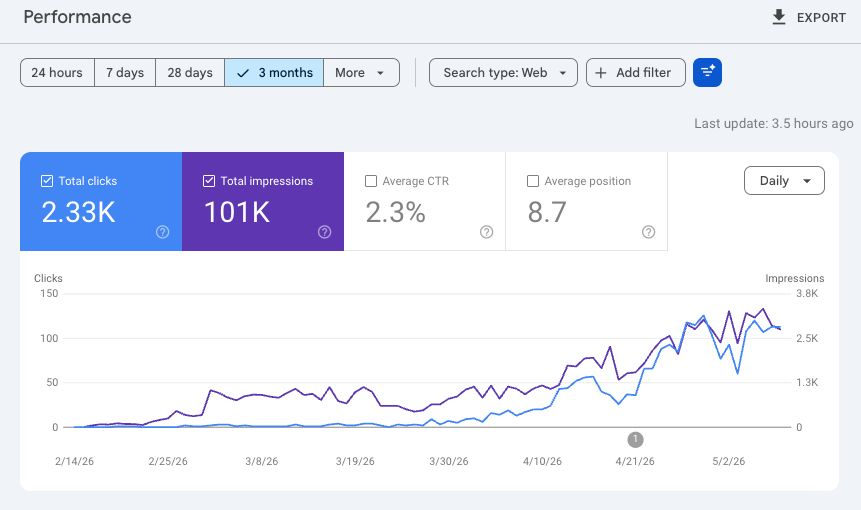
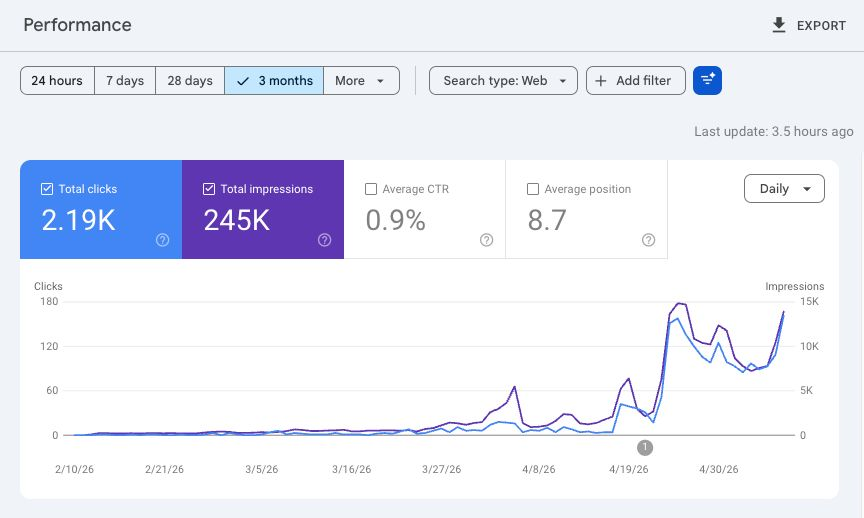
fix: swap Client B/C performance screenshots, enhance descriptions
- Client B: Largest Supermarket Chain (Portugal) — 245K impressions
- Client C: Leading Discount Retailer (Spain) — 101K impressions
- Client A: Major European DIY Chain (Spain)

diff --git a/case-studies.html b/case-studies.html
@@ -156,7 +156,7 @@ a{color:var(--accent);text-decoration:none;transition:opacity .2s}a:hover{opacit
   <div class="evidence">
     <div class="sec-title">Verified Evidence — Google Search Console</div>
 
-    <div class="client-label">Enterprise Client A — Retail (Spain)</div>
+    <div class="client-label">Enterprise Client A — Major European DIY Chain (Spain)</div>
     <div class="evidence-grid">
       <div class="evidence-card">
         <img src="assets/client-a-indexing.jpg" alt="GSC Page Indexing — Client A" loading="lazy">
@@ -168,7 +168,7 @@ a{color:var(--accent);text-decoration:none;transition:opacity .2s}a:hover{opacit
       </div>
     </div>
 
-    <div class="client-label">Enterprise Client B — Grocery (Portugal)</div>
+    <div class="client-label">Enterprise Client B — Largest Supermarket Chain (Portugal)</div>
     <div class="evidence-grid">
       <div class="evidence-card">
         <img src="assets/client-b-indexing.jpg" alt="GSC Page Indexing — Client B" loading="lazy">
@@ -176,11 +176,11 @@ a{color:var(--accent);text-decoration:none;transition:opacity .2s}a:hover{opacit
       </div>
       <div class="evidence-card">
         <img src="assets/client-b-performance.jpg" alt="GSC Performance — Client B" loading="lazy">
-        <div class="caption"><h4>Search Performance</h4><div class="val">101K impressions · 2.33K clicks</div><p>2.3% CTR, Avg Position 8.7. Highest-converting property.</p></div>
+        <div class="caption"><h4>Search Performance</h4><div class="val">245K impressions · 2.19K clicks</div><p>0.9% CTR, Avg Position 8.7. Highest impression volume.</p></div>
       </div>
     </div>
 
-    <div class="client-label">Enterprise Client C — Discount Retail (Spain)</div>
+    <div class="client-label">Enterprise Client C — Leading Discount Retailer (Spain)</div>
     <div class="evidence-grid">
       <div class="evidence-card">
         <img src="assets/client-c-indexing.jpg" alt="GSC Page Indexing — Client C" loading="lazy">
@@ -188,7 +188,7 @@ a{color:var(--accent);text-decoration:none;transition:opacity .2s}a:hover{opacit
       </div>
       <div class="evidence-card">
         <img src="assets/client-c-performance.jpg" alt="GSC Performance — Client C" loading="lazy">
-        <div class="caption"><h4>Search Performance</h4><div class="val">245K impressions · 2.19K clicks</div><p>0.9% CTR, Avg Position 8.7. Highest impression volume.</p></div>
+        <div class="caption"><h4>Search Performance</h4><div class="val">101K impressions · 2.33K clicks</div><p>2.3% CTR, Avg Position 8.7. Highest-converting property.</p></div>
       </div>
     </div>
   </div>
